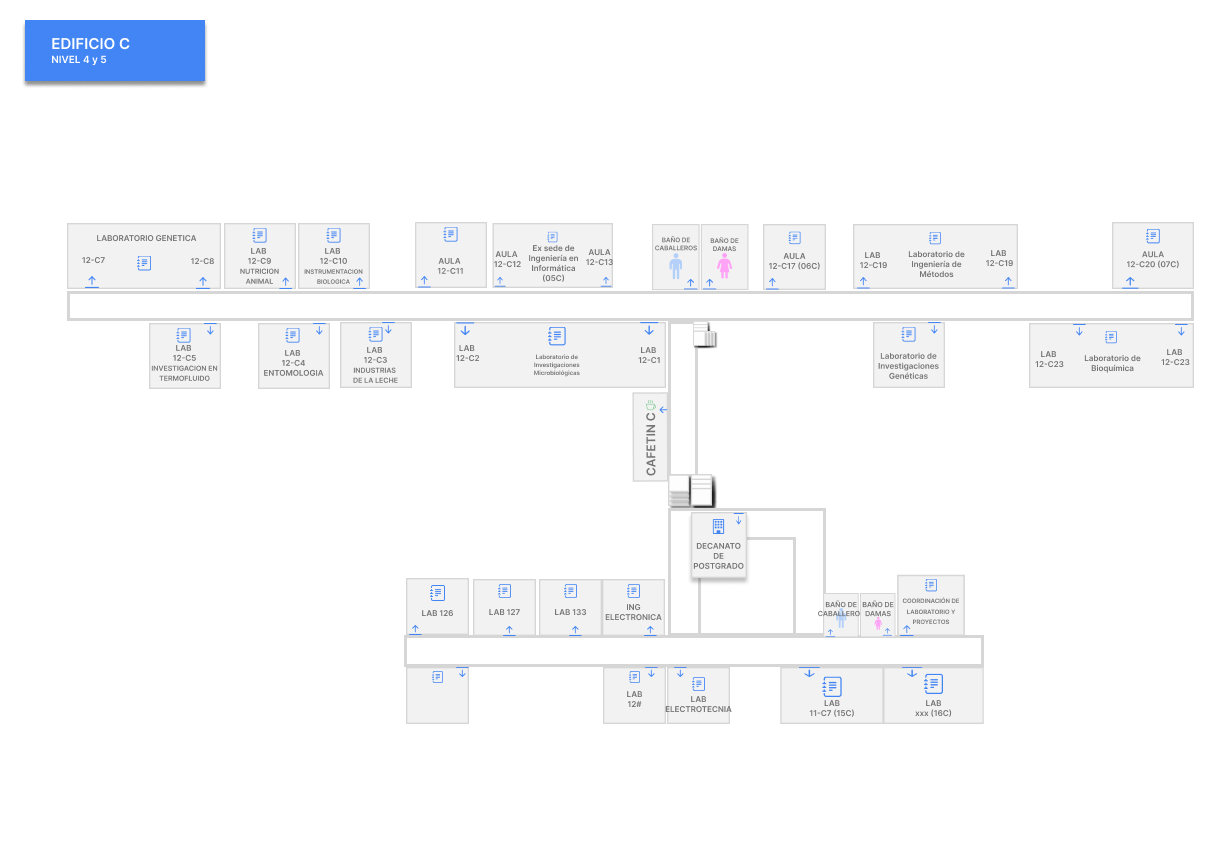
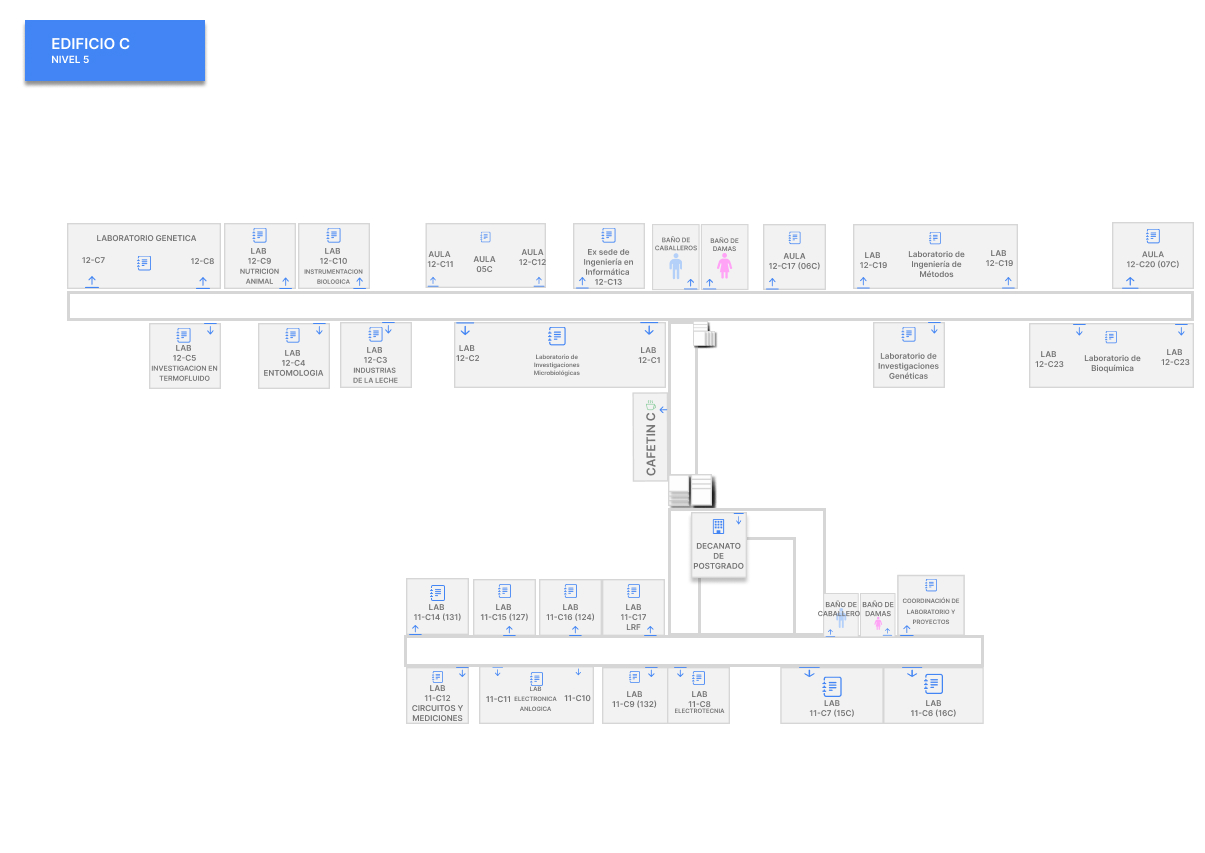
feat: fix styles and add slow rotation

diff --git a/unet360/src/pages/UMap.vue b/unet360/src/pages/UMap.vue
@@ -358,6 +358,10 @@ const isAdmin = computed(() => {
 }); // TODO: Lógica real de authStore
 const isEditMode = ref(false);
 const isMapExpanded = ref(false);
+const isAutoRotating = ref(true); // Control de reproducción/pausa de rotación lenta
+let rotationFrameId = null;
+let idleTimeout = null;
+let isUserInteracting = false;
 
 const expandMap = () => {
   if (!isMapExpanded.value) {
@@ -841,6 +845,16 @@ watch(actualRoute, async (newVal) => {
   notifyTravel(newVal.weight);
 }, { deep: true });
 
+const playSvg = `<svg class="psv-button-svg" width="20" height="20" viewBox="0 0 24 24" fill="currentColor"><path d="M8 5v14l11-7z"/></svg>`;
+const pauseSvg = `<svg class="psv-button-svg" width="20" height="20" viewBox="0 0 24 24" fill="currentColor"><path d="M6 19h4V5H6v14zm8-14v14h4V5h-4z"/></svg>`;
+
+watch(isAutoRotating, (newVal) => {
+  const btn = document.querySelector('.custom-rotate-btn');
+  if (btn) {
+    btn.innerHTML = newVal ? pauseSvg : playSvg;
+  }
+});
+
 function notifyTravel(distancia) {
   const timeSeconds = distancia / 1.39;
   toastRefMap.value.showToast(`Distancia promedio: ${distancia.toFixed(2)}m. Tiempo aprox: ${Math.round(timeSeconds / 60)} min.`);
@@ -863,6 +877,8 @@ onBeforeUnmount(() => {
   window.removeEventListener("resize", setVh);
   window.removeEventListener('trigger-cancel-edit', handleCancelEdit);
   window.removeEventListener('trigger-toggle-edit', toggleEditMode);
+  if (idleTimeout) clearTimeout(idleTimeout);
+  if (rotationFrameId) cancelAnimationFrame(rotationFrameId);
 });
 
 onMounted(async () => {
@@ -874,6 +890,32 @@ onMounted(async () => {
   window.addEventListener('trigger-cancel-edit', handleCancelEdit);
   window.addEventListener('trigger-toggle-edit', toggleEditMode);
 
+  // Escuchar interacciones para pausar rotación y reactivar tras inactividad
+  const startIdleTimer = () => {
+    if (idleTimeout) clearTimeout(idleTimeout);
+    idleTimeout = setTimeout(() => {
+      isUserInteracting = false;
+    }, 2500);
+  };
+
+  const container = viewerContainer.value;
+  if (container) {
+    container.addEventListener('mousedown', () => {
+      isUserInteracting = true;
+      if (idleTimeout) clearTimeout(idleTimeout);
+    });
+    window.addEventListener('mouseup', () => {
+      startIdleTimer();
+    });
+    container.addEventListener('touchstart', () => {
+      isUserInteracting = true;
+      if (idleTimeout) clearTimeout(idleTimeout);
+    });
+    window.addEventListener('touchend', () => {
+      startIdleTimer();
+    });
+  }
+
   setNode(route.query.node || generateRandomStartNode());
 
   viewer = new Viewer({
@@ -883,7 +925,44 @@ onMounted(async () => {
     plugins: [[MarkersPlugin, {}]],
     defaultZoomLvl: 0, moveSpeed: 1.75,
     defaultYaw: currentNodeData.value.forward_heading,
+    navbar: [
+      'zoom',
+      'move',
+      {
+        id: 'autorotate-custom',
+        title: 'Rotación automática',
+        className: 'custom-rotate-btn',
+        content: pauseSvg, // Inicia pausando (porque gira por defecto)
+        onClick: () => {
+          isAutoRotating.value = !isAutoRotating.value;
+          if (isAutoRotating.value) {
+            isUserInteracting = false;
+            if (idleTimeout) clearTimeout(idleTimeout);
+          }
+        }
+      },
+      'fullscreen'
+    ]
   });
+
+  // Bucle de animación de rotación lenta
+  const animateRotation = () => {
+    if (viewer && isAutoRotating.value && !isUserInteracting && !isEditMode.value) {
+      try {
+        const pos = viewer.getPosition();
+        viewer.rotate({
+          yaw: pos.yaw + 0.0006, // Rotación suave (~0.034° por frame)
+          pitch: pos.pitch
+        });
+      } catch (e) {
+        // Ignorar si el visor no está listo
+      }
+    }
+    if (viewer) {
+      rotationFrameId = requestAnimationFrame(animateRotation);
+    }
+  };
+  animateRotation();
 
   const markers = viewer.getPlugin(MarkersPlugin);
   markersPlugin.value = markers;

diff --git a/unet360/src/service/shared/utils.js b/unet360/src/service/shared/utils.js
@@ -134,37 +134,84 @@ export function searchNodeByKeyword(keyword) {
         return {};
     }
 
-    const searchableText = {};
+    const matchesMap = new Map();
 
     for (const node of nodeStore.nodes) {
         const nameText = node.name.toLowerCase();
         const locationText = node.location ? String(node.location).toLowerCase() : '';
 
-        const matchesKeyword = lowerKeywords.some(kw => nameText.includes(kw) || locationText.includes(kw));
+        const matchedKeywords = lowerKeywords.filter(kw => nameText.includes(kw) || locationText.includes(kw));
 
-        if (matchesKeyword) {
-            searchableText[node.location] = node.name ?? '';
+        if (matchedKeywords.length > 0) {
+            const label = node.location || node.name;
+            const lowerLabel = label.toLowerCase();
+            
+            // Calcular puntuación de relevancia basada en la cantidad de palabras coincidentes
+            let score = 0;
+            for (const kw of lowerKeywords) {
+                if (lowerLabel.includes(kw)) {
+                    score += 10;
+                    if (lowerLabel === kw) score += 5;
+                }
+            }
+            if (lowerLabel.startsWith(lowerKeywords[0])) {
+                score += 5;
+            }
+
+            const existing = matchesMap.get(label);
+            if (!existing || score > existing.score) {
+                matchesMap.set(label, { nodeName: node.name, score });
+            }
         }
 
         if (Object.keys(node.tags).length > 0) {
             for (const [_, value] of Object.entries(node.tags)) {
                 for (const [tagKey, _] of Object.entries(value)) {
-                    const tagMatches = lowerKeywords.some(kw => tagKey.toLowerCase().includes(kw));
+                    const tagText = tagKey.toLowerCase();
+                    const tagMatchedKeywords = lowerKeywords.filter(kw => tagText.includes(kw));
 
-                    if (tagMatches) {
-                        searchableText[tagKey] = node.name ?? '';
+                    if (tagMatchedKeywords.length > 0) {
+                        let score = 0;
+                        for (const kw of lowerKeywords) {
+                            if (tagText.includes(kw)) {
+                                score += 10;
+                                if (tagText === kw) score += 5;
+                            }
+                        }
+                        if (tagText.startsWith(lowerKeywords[0])) {
+                            score += 5;
+                        }
+
+                        const existing = matchesMap.get(tagKey);
+                        if (!existing || score > existing.score) {
+                            matchesMap.set(tagKey, { nodeName: node.name, score });
+                        }
                     }
                 }
             }
         }
     }
 
-    return searchableText;
+    // Ordenar resultados por puntuación descendente, luego alfabéticamente
+    const sortedEntries = Array.from(matchesMap.entries()).sort((a, b) => {
+        if (b[1].score !== a[1].score) {
+            return b[1].score - a[1].score;
+        }
+        return a[0].localeCompare(b[0]);
+    });
+
+    const result = {};
+    for (const [label, data] of sortedEntries) {
+        result[label] = data.nodeName;
+    }
+
+    return result;
 }
 
 export function generateRandomStartNode() {
-    const numero = Math.floor(Math.random() * 112) + 1;
-    return numero.toString().padStart(3, '0');
+    const nodes = ['074', '075', '076', '105', '106', '119', '059', '079', '054'];
+    const randomIndex = Math.floor(Math.random() * nodes.length);
+    return nodes[randomIndex];
 }
 
 export function formatFileSize(bytes) {

diff --git a/unet360/src/assets/styles/pages/_input_card.scss b/unet360/src/assets/styles/pages/_input_card.scss
@@ -41,6 +41,18 @@
     gap: 0.6rem;
     animation: fadeIn 0.3s ease-out forwards;
     padding: 14px 62px 14px 62px;
+    max-height: 15rem; // Altura máxima para limitar la expansión vertical
+    overflow-y: auto; // Habilita el scroll para listas largas de resultados
+    scrollbar-width: thin;
+    scrollbar-color: rgba(255, 255, 255, 0.15) transparent;
+
+    &::-webkit-scrollbar {
+        width: 4px;
+    }
+    &::-webkit-scrollbar-thumb {
+        background: rgba(255, 255, 255, 0.15);
+        border-radius: 2px;
+    }
 }
 
 .menu-item {